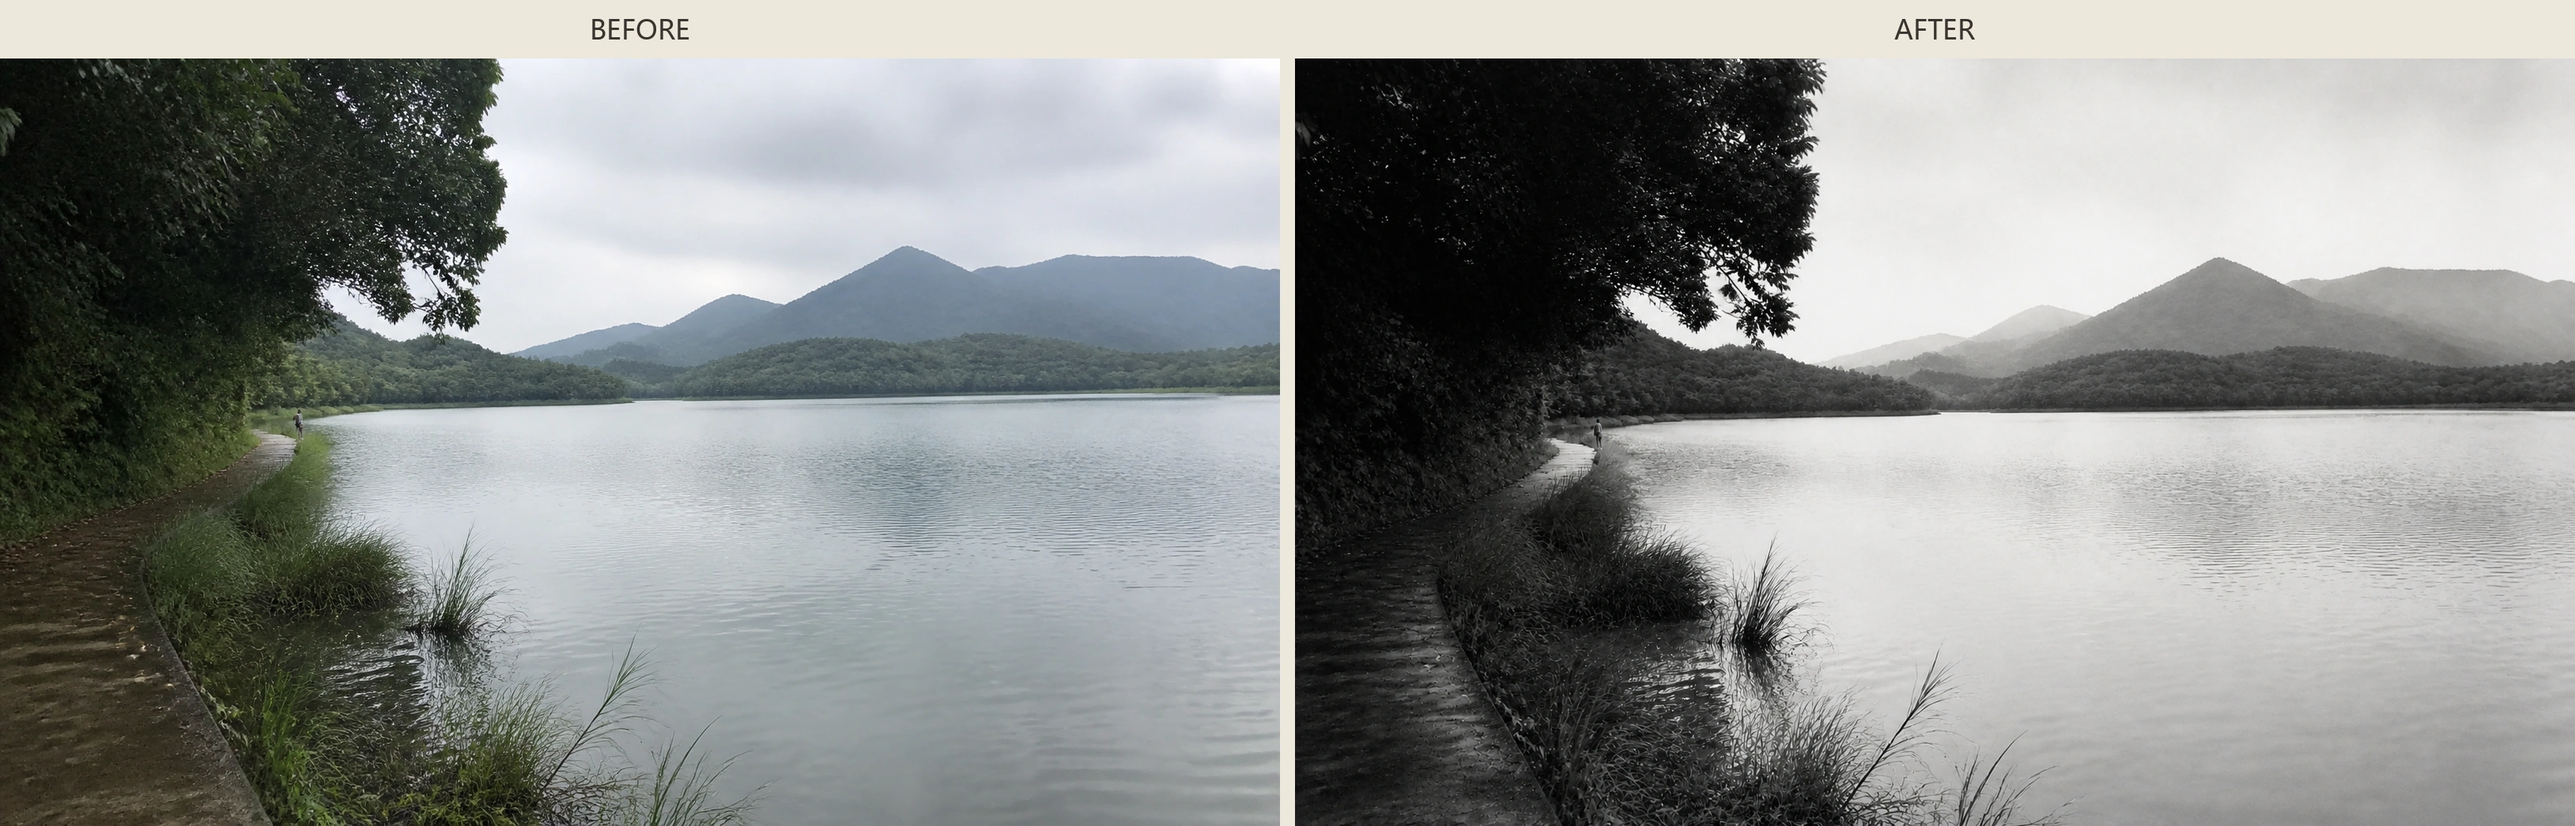
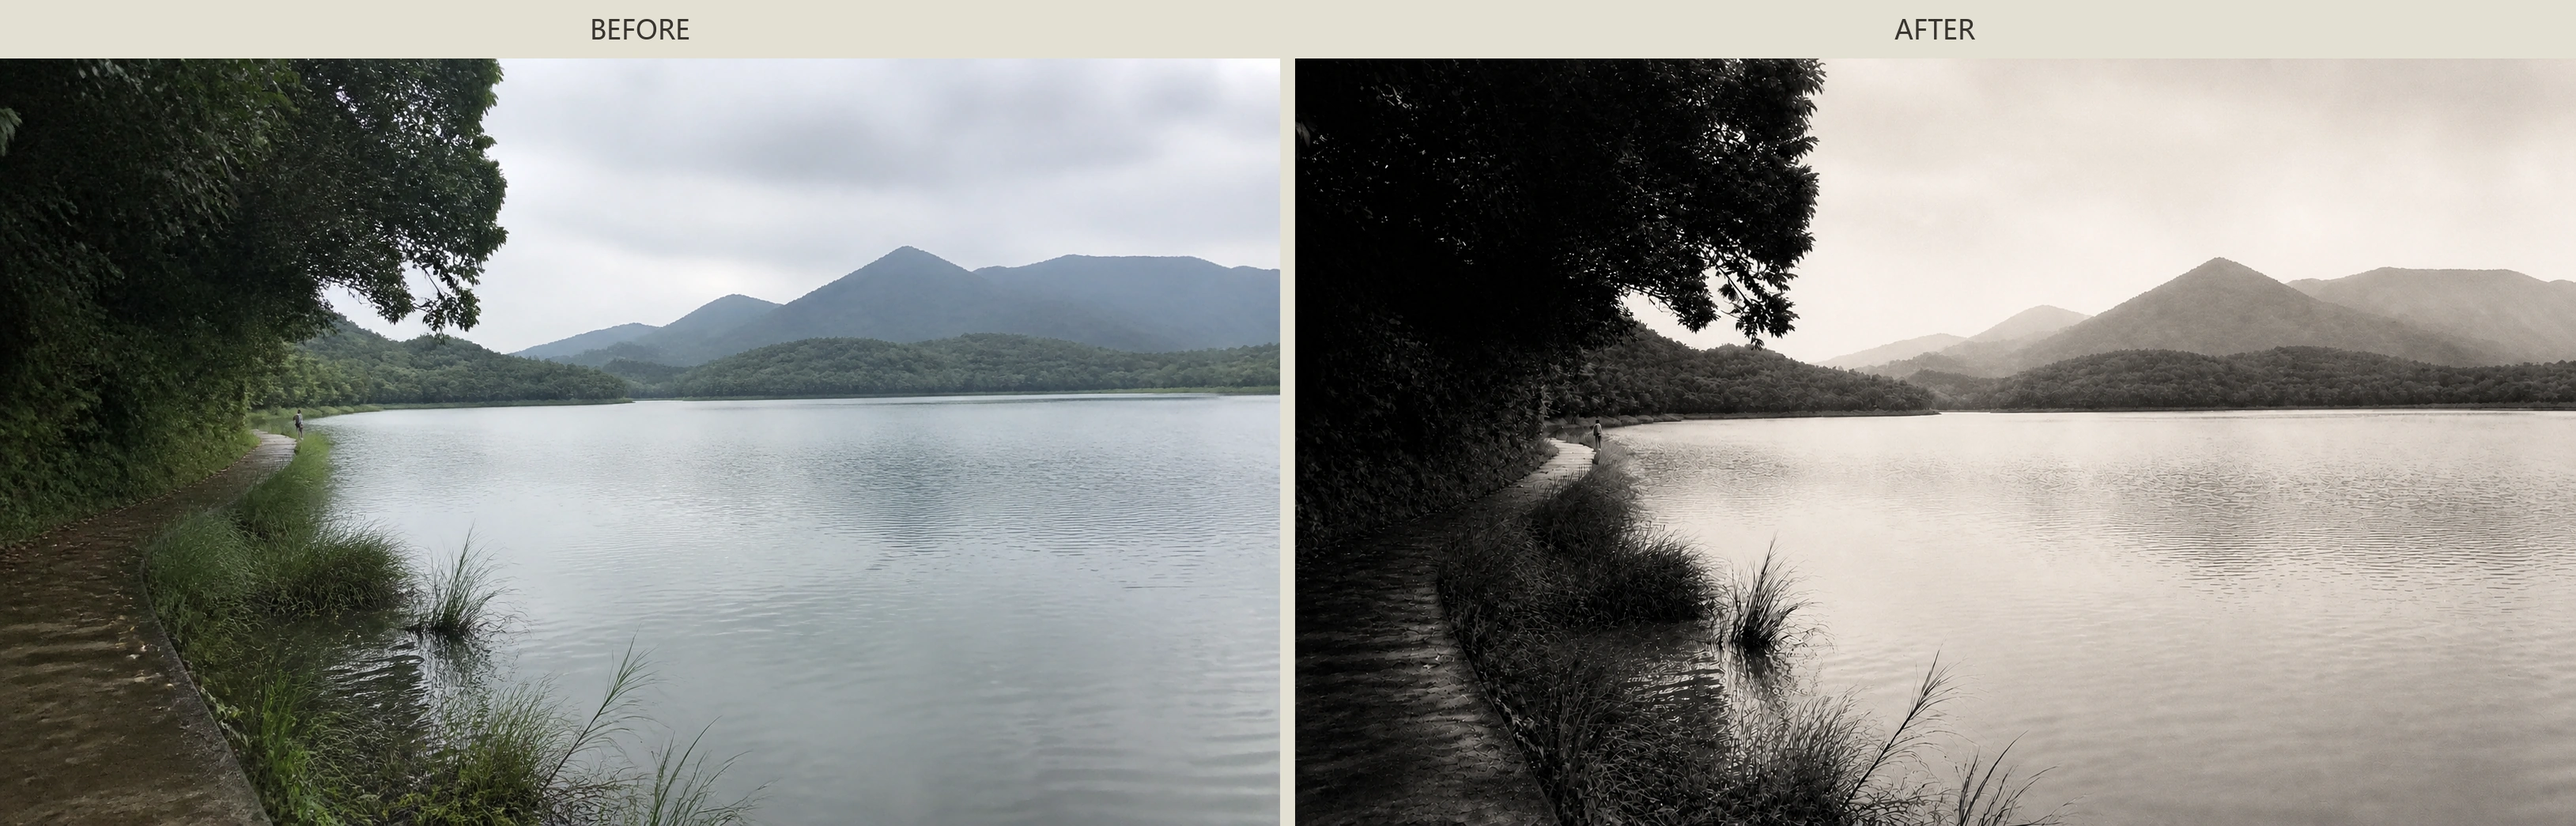
refine warm silver-gelatin tone

diff --git a/compose-jingshan-landscape/scripts/build_comparison.py b/compose-jingshan-landscape/scripts/build_comparison.py
@@ -36,8 +36,8 @@ def parse_args() -> argparse.Namespace:
     )
     parser.add_argument(
         "--background",
-        default="#ede8dc",
-        help="Board background as #RGB or #RRGGBB",
+        default="#E4E0D5",
+        help="Board background as #RGB or #RRGGBB (default: #E4E0D5)",
     )
     parser.add_argument(
         "--labels",

diff --git a/compose-jingshan-landscape/SKILL.md b/compose-jingshan-landscape/SKILL.md
@@ -184,7 +184,9 @@ python <skill-root>/scripts/build_comparison.py `
 
 ### `silver-gelatin`
 
-按通道转译而非全局去饱和：保护面部中间调；将密集绿色枝叶压缩为少数灰阶大形；让蓝天、水面或墙光在合适时成为空气留白；将强红默认转为深灰锚点。保留深黑、清楚中灰和发光高光。
+默认采用克制的暖灰银盐或轻微硒调相纸基：高光接近发光象牙白，中间调为低饱和暖灰，暗部为炭黑，并保留少量深中性黑。暖意应第二眼才被感知，不能变成棕褐老照片。
+
+按通道转译而非全局去饱和：保护面部中间调；将密集绿色枝叶压缩为少数灰阶大形；让蓝天、水面或墙光在合适时成为空气留白；将强红默认转为深灰锚点。暖灰相纸基不算 `source-tint`，不得借此增加彩色物体或第二强调色。
 
 ### `source-tint`
 
@@ -198,7 +200,7 @@ python <skill-root>/scripts/build_comparison.py `
 
 ## 摄影材质
 
-- 使用银盐照片或克制暗房放印质感。
+- 使用暖灰银盐照片或克制硒调暗房放印质感；保持象牙高光、暖灰中间调、炭黑暗部和少量深黑。
 - 统一主图和辅助图的光向、尺度、颗粒、黑位、中间调和高光。
 - 在真实照片锚点保留自然纹理和可辨细节。
 - 前景最实，中景转折，远景更轻，但不只靠模糊制造距离。
@@ -252,6 +254,7 @@ python <skill-root>/scripts/build_comparison.py `
 - 蒸馏仍有照片块：删除照片窗口、写实裁片、描摹边缘与原构图复刻，重新生成完整摄影空间。
 - 蒸馏变成插画海报：恢复可信光线、银盐调子、镜头关系与集锦摄影层次，删除编辑排版和装饰图形。
 - 黑白发灰：重建深黑、中灰和高光。
+- 底色过黄或过褐：中和宣纸黄、棕褐与橙色偏色，只保留轻微暖灰相纸基和象牙高光。
 - 颜色装饰：删除没有来源和结构作用的色相。
 - 对比板裁切或变形：重新用 contain 排版，不调用生成模型。
 
@@ -264,7 +267,7 @@ python <skill-root>/scripts/build_comparison.py `
 - 不适用近景肖像时不要调用图像生成或对比脚本。
 - 无法生成精确短文字时删除文字，不用错字替代。
 
-避免水墨笔触、绘画轮廓、仿古污渍、统一宣纸滤镜、通用撕纸模板、干净数字蒙版、贴纸白边、卷角、厚投影、胶带、蕾丝、相框、默认标题、诗句、书法、印章、日期、序列号、英文微文字、图片内署名、网站推广、水印、无来源寺庙、仙鹤、高士、舟船、古装替换、仙侠光效、HDR、青橙调色、霓虹、商业人像光、塑料皮肤、过锐、AI 平滑、虚假景深、均匀大雾和硬接缝。
+避免水墨笔触、绘画轮廓、棕褐老照片、宣纸黄、橙色泛旧、仿古污渍、统一宣纸滤镜、通用撕纸模板、干净数字蒙版、贴纸白边、卷角、厚投影、胶带、蕾丝、相框、默认标题、诗句、书法、印章、日期、序列号、英文微文字、图片内署名、网站推广、水印、无来源寺庙、仙鹤、高士、舟船、古装替换、仙侠光效、HDR、青橙调色、霓虹、商业人像光、塑料皮肤、过锐、AI 平滑、虚假景深、均匀大雾和硬接缝。
 
 ## 输出契约
 
@@ -295,6 +298,7 @@ python <skill-root>/scripts/build_comparison.py `
 - 叠图交接是否可见、狭窄、不规则且没有剪贴簿感？
 - 蒸馏是否完全没有照片碎片、摄影窗口、描摹和原构图复刻，同时仍像画意摄影而非通用插画？
 - 颜色是否遵守模式且没有凭空增加色相？
+- `silver-gelatin` 是否为轻微暖灰银盐调，而非中性数字灰、明显棕褐或宣纸黄？
 - 画面是否避免无来源“中国风”符号？
 - 正常尺寸和小屏 QA 是否都有清楚层级；交付是否保持正常尺寸？
 - 对比板是否由脚本生成、保持比例且没有裁切或模型改写？

diff --git a/README.en.md b/README.en.md
@@ -10,9 +10,9 @@ An Agent Skill for photo editing and image generation inspired by Lang Jingshan'
 
 ## Comparison example
 
-![Uncropped comparison of an AI demonstration source and a 5:3 Lang Jingshan-inspired result](docs/images/jingshan-before-after-example.webp)
+![Uncropped comparison of an AI demonstration source and a warm silver-gelatin 5:3 Lang Jingshan-inspired result](docs/images/jingshan-before-after-example.webp)
 
-The left panel is a project-owned AI demonstration source. The right panel is the generated `5:3` result. The deterministic comparison script assembles both panels without generative rewriting or cropping. This workflow example is not a historical photograph or an artwork by Lang Jingshan.
+The left panel is a project-owned AI demonstration source. The right panel is the generated `5:3` warm silver-gelatin result, using ivory highlights, warm-gray middle tones, and charcoal shadows rather than heavy sepia or yellow paper. The deterministic comparison script assembles both panels without generative rewriting or cropping. This workflow example is not a historical photograph or an artwork by Lang Jingshan.
 
 ## Search name
 
@@ -69,7 +69,7 @@ Open a new task after installation. Restart the host application if the Skill do
 
 ### ZIP import
 
-Download `compose-jingshan-landscape-v1.1.0.zip` from [Releases](https://github.com/junhaogege6/compose-jingshan-landscape/releases). The archive contains exactly one top-level Skill folder with `SKILL.md` at its root.
+Download `compose-jingshan-landscape-v1.1.1.zip` from [Releases](https://github.com/junhaogege6/compose-jingshan-landscape/releases). The archive contains exactly one top-level Skill folder with `SKILL.md` at its root.
 
 ## Compatibility
 
@@ -123,6 +123,7 @@ $compose-jingshan-landscape Produce the standalone artwork and an exact source/r
 
 - Accept one primary photograph and up to three optional supporting photographs.
 - There is no mandatory source color palette. The Skill performs controlled color reduction according to subject, light, and mood instead of applying one fixed grade.
+- The default `silver-gelatin` mode uses restrained warm-gray print tonality, not neutral digital grayscale, heavy sepia, or a yellow rice-paper filter.
 - Without an explicit ratio, the Skill routes between portrait `3:5` and landscape `5:3`; explicit `4:5`, `2:3`, `3:2`, `16:9`, `1:1`, `9:16`, and original-ratio output are supported.
 - Artistic output requires an image-editing or image-generation capability.
 - `scripts/build_comparison.py` requires Pillow and creates deterministic comparison layouts; it does not generate the artwork.
@@ -145,7 +146,7 @@ compose-jingshan-landscape/
 
 ## Release package
 
-The standard release archive contains only the installable Skill. It excludes repository documentation, demonstration images, design notes, and Git metadata. Release: [v1.1.0](https://github.com/junhaogege6/compose-jingshan-landscape/releases/tag/v1.1.0).
+The standard release archive contains only the installable Skill. It excludes repository documentation, demonstration images, design notes, and Git metadata. Release: [v1.1.1](https://github.com/junhaogege6/compose-jingshan-landscape/releases/tag/v1.1.1).
 
 ## Privacy
 

diff --git a/README.md b/README.md
@@ -10,9 +10,9 @@
 
 ## 对比示例
 
-![AI 演示原图与郎静山取向 5:3 成图的无裁切对比](docs/images/jingshan-before-after-example.webp)
+![AI 演示原图与郎静山取向 5:3 暖灰银盐成图的无裁切对比](docs/images/jingshan-before-after-example.webp)
 
-左侧为项目自有的 AI 演示原图，右侧为按本 Skill 规则生成的横幅 `5:3` 成图；对比板由确定性脚本排版，两侧均未被生成模型二次改写或裁切。演示图只用于说明工作流，不代表历史作品或郎静山先生原作。
+左侧为项目自有的 AI 演示原图，右侧为按本 Skill 规则生成的横幅 `5:3` 暖灰银盐成图；其综合色调采用象牙高光、暖灰中间调与炭黑暗部，不使用浓棕复古或宣纸黄。对比板由确定性脚本排版，两侧均未被生成模型二次改写或裁切。演示图只用于说明工作流，不代表历史作品或郎静山先生原作。
 
 ## 搜索名称
 
@@ -74,7 +74,7 @@ Copy-Item -Recurse ".\compose-jingshan-landscape\compose-jingshan-landscape" "$H
 从 [Releases](https://github.com/junhaogege6/compose-jingshan-landscape/releases) 下载：
 
 ```text
-compose-jingshan-landscape-v1.1.0.zip
+compose-jingshan-landscape-v1.1.1.zip
 ```
 
 ZIP 内只有一个顶层 Skill 文件夹，`SKILL.md` 位于该文件夹根目录，可用于支持 Agent Skills ZIP 导入的产品。
@@ -131,6 +131,7 @@ $compose-jingshan-landscape 输出郎静山改单图，并生成原图/成图对
 
 - 支持 1 张主图，并可选最多 3 张辅助图。
 - 原图颜色没有硬性限制；Skill 会根据主体、光线与意境进行受控减色，而不是统一套用单一色调。
+- 默认 `silver-gelatin` 是克制的暖灰银盐调，不是中性数字灰、棕褐老照片或黄色宣纸滤镜。
 - 未指定比例时自动在竖幅 `3:5` 与横幅 `5:3` 间路由；支持 `4:5`、`2:3`、`3:2`、`16:9`、`1:1`、`9:16` 和原图比例。
 - 艺术成图依赖宿主具备图像编辑或生成能力。
 - `scripts/build_comparison.py` 用于确定性对比排版，需要 Pillow；它不参与艺术生成。
@@ -153,7 +154,7 @@ compose-jingshan-landscape/
 
 ## 发布包
 
-标准发布包只包含可安装 Skill，不包含 README、演示图、设计文档或仓库元数据。发布版本：[v1.1.0](https://github.com/junhaogege6/compose-jingshan-landscape/releases/tag/v1.1.0)。
+标准发布包只包含可安装 Skill，不包含 README、演示图、设计文档或仓库元数据。发布版本：[v1.1.1](https://github.com/junhaogege6/compose-jingshan-landscape/releases/tag/v1.1.1)。
 
 ## 隐私
 

diff --git a/compose-jingshan-landscape/references/visual-grammar.md b/compose-jingshan-landscape/references/visual-grammar.md
@@ -235,6 +235,13 @@
 
 ### `silver-gelatin`
 
+默认底色不是纯中性数字灰，也不是明显棕褐。采用克制暖灰银盐或轻微硒调放印：
+
+- 高光保持接近白的发光象牙色，不染成黄色纸面。
+- 中间调使用低饱和暖灰，使人物皮肤、雾、水和远山仍可分层。
+- 暗部以炭黑为主，保留少量深中性黑和前景纹理。
+- 暖意只作为相纸与放印响应，第一眼仍须读作黑白摄影。
+
 不要直接全局去饱和。按色彩通道建立黑白层次：
 
 - 肤色保持自然中间调和面部体积。
@@ -255,7 +262,7 @@
 
 ## 10. 摄影材质
 
-目标材质是银盐照片或克制的暗房放印，不是旧纸海报。
+目标材质是暖灰银盐照片或克制的硒调暗房放印，不是旧纸海报。象牙高光、暖灰中间调和炭黑暗部必须连贯，不能全图套同一种棕黄色。
 
 保持：
 
@@ -272,6 +279,7 @@
 - HDR、过锐、AI 磨皮和虚假景深。
 - 青橙电影调色、霓虹和商业广告光效。
 - 均匀复古颗粒或重度污渍。
+- 棕褐怀旧滤镜、宣纸黄、橙色泛旧或把扫描色差误作原作色彩。
 
 ## 11. 提示词表达
 
@@ -335,6 +343,10 @@
 ### 色彩装饰化
 
 删除没有来源与结构作用的颜色，只保留一个有意义的源色。
+
+### 底色过黄或过褐
+
+中和黄色、橙色与浓棕偏色，恢复发光象牙高光、低饱和暖灰中间调和炭黑暗部。不要退回冰冷数字灰，也不要用污渍证明年代感。
 
 ### 俗套中国风
 

diff --git a/compose-jingshan-landscape/references/layered-composite.md b/compose-jingshan-landscape/references/layered-composite.md
@@ -101,7 +101,7 @@
 
 ### `emulsion-dissolve` 默认
 
-使用不规则暗房乳剂消隐、局部银影断裂、狭窄裸露纤维和相纸暖灰。边缘有少数浅缺口、磨损和干燥显影痕迹，但保持平面扫描感。
+使用不规则暗房乳剂消隐、局部银影断裂、狭窄裸露纤维和低饱和暖灰相纸。高光接近象牙白，暗部保持炭黑；边缘有少数浅缺口、磨损和干燥显影痕迹，但不出现黄色纸面、棕褐滤镜或重度污渍。
 
 关键词语义：
 
@@ -132,7 +132,7 @@
 
 ## 7. 结构色
 
-真实照片锚点可保留克制原色。转译场默认银盐黑白；只有来源色能改变构图时才保留或强化一种色相。
+真实照片锚点可保留克制原色。转译场默认暖灰银盐黑白；只有来源色能改变构图时才保留或强化一种色相。相纸暖灰不算第二强调色。
 
 结构色必须至少满足两项：
 
@@ -174,7 +174,7 @@
 
 ### 第四段：材质与禁区
 
-写明银盐层次、平面相纸或纸本扫描质感、统一光向、颗粒和情绪。禁止水墨滤镜、古画、全景描摹、商业海报、任意纸片、无来源中国符号、数字贴纸边、网站和水印。
+写明象牙高光、暖灰中间调、炭黑暗部、平面相纸或纸本扫描质感、统一光向、颗粒和情绪。禁止棕褐怀旧、宣纸黄、水墨滤镜、古画、全景描摹、商业海报、任意纸片、无来源中国符号、数字贴纸边、网站和水印。
 
 保持以下语义不变量：
 

diff --git a/PORTABLE_PROMPT.md b/PORTABLE_PROMPT.md
@@ -28,7 +28,7 @@
 - 接受一张主照片和最多三张可选辅助照片。
 - 保留主体身份、关键动作、主要地貌、建筑和物件关系，以及原图的光线方向与时间语义。
 - 可以裁切、挪移、缩放、组合、遮蔽、虚化和删除次要元素，但不得改变事件含义或捏造重要人物。
-- 原图颜色不限。根据内容在银盐黑白、保留一种来源色或低饱和原色之间选择，不统一套固定色调。
+- 原图颜色不限。根据内容在暖灰银盐黑白、保留一种来源色或低饱和原色之间选择，不统一套固定色调。
 
 【模式路由】
 1. 用户说“郎静山处理、改单图、集锦摄影”：选择 jingshan-single，输出一张完整作品。
@@ -60,7 +60,8 @@
 【jingshan-single】
 - 先保护主体和照片事实，再重建前中远景。
 - 用雾、云、水、纸白或暗部遮蔽建立自然过渡。
-- 允许局部银盐、颗粒、柔焦和暗房层次，但保持摄影质感。
+- 默认银盐底色为轻微暖灰：发光象牙高光、低饱和暖灰中间调、炭黑暗部和少量深黑。第一眼仍须像黑白摄影，禁止明显棕褐、宣纸黄、橙色泛旧和仿古污渍。
+- 允许局部颗粒、柔焦和克制硒调暗房层次，但保持摄影质感。
 - 生成一张独立、完整、无需依赖原图对照才能成立的画意摄影作品。
 
 【jingshan-layered】

diff --git a/docs/superpowers/specs/2026-08-14-photo-role-and-aspect-routing-design.md b/docs/superpowers/specs/2026-08-14-photo-role-and-aspect-routing-design.md
@@ -124,7 +124,7 @@ The final prompt must identify the source as a semantic reference only and prohi
 
 Input color remains unrestricted. Continue to analyze source color by semantic role, value structure, temperature, and atmosphere.
 
-- `silver-gelatin` remains the default.
+- `silver-gelatin` remains the default, using luminous ivory highlights, low-saturation warm-gray middle tones, charcoal shadows, and a small amount of deep neutral black.
 - `source-tint` may retain one meaningful low-saturation source color.
 - `muted-original` may preserve a restrained version of the source palette when color is essential to identity or season.
 - Do not adopt a mandatory high-chroma accent from the reference project.

diff --git a/compose-jingshan-landscape/references/evaluation-cases.md b/compose-jingshan-landscape/references/evaluation-cases.md
@@ -226,6 +226,7 @@
 - 夜景不得被改成白昼云山；水面灯影可承担方向与情绪留白。
 - 辅助照片冲突时必须舍弃，而不是用雾、纸片或乳剂边隐藏冲突。
 - `muted-original` 仅在用户明确要求保留彩色时使用。
+- 默认 `silver-gelatin` 使用象牙高光、暖灰中间调与炭黑暗部；失败表现包括冰冷数字灰、明显棕褐、宣纸黄、橙色泛旧或重度污渍。
 - 自动针对性重生成总数不得超过一次。
 
 ## 评测记录格式
